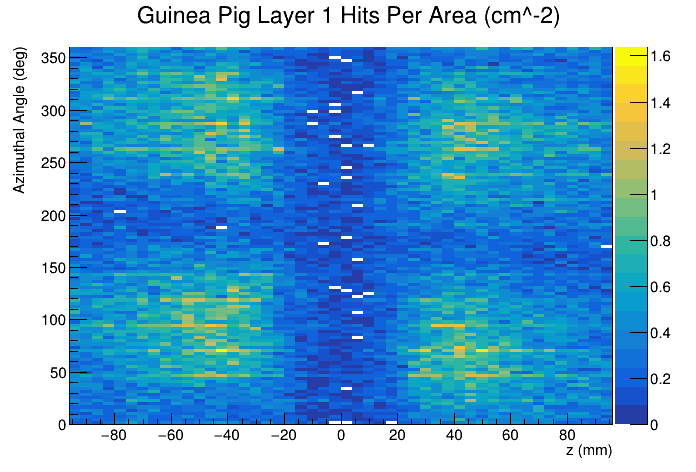
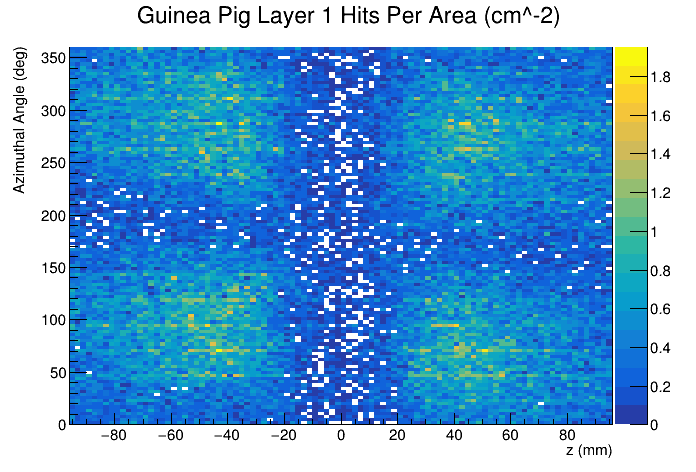
changing bin sizes on hit rate plots

diff --git a/python/hit_rate_mapper.py b/python/hit_rate_mapper.py
@@ -10,7 +10,7 @@ events = podio_reader.get("events")
 layer_radii = [14, 23, 34.5, 141, 316]
 true_radii = [1.37, 2.37, 3.4, 13, 31.5]
 disk_z = [303, 635, 945, -303, -635, -945]
-z_ranges = {14: (96,4), 23: (162,6), 34.5: (261,9), 141: (162,6), 316: (324,12)}
+z_ranges = {14: (96,2), 23: (162,3), 34.5: (261,3), 141: (162,3), 316: (324,6)}
 particles = {11: "electron", -11: "positron"}
 
 def phi(x,y):
@@ -58,14 +58,14 @@ def z_coord(hit):
             return z
     raise ValueError(f"Not close enough to any of the disks {true_z}")
 
-hit_map = {coord: {z: {azimuthal: {particle: [0] * 100 for particle in particles.values()} \
-                for azimuthal in range(0, 360, 3)} \
-                    for z in range(-z_ranges[coord][0], z_ranges[coord][0], z_ranges[coord][1])} \
-                        for coord in layer_radii}
+# hit_map = {coord: {z: {azimuthal: {particle: [0] * 100 for particle in particles.values()} \
+#                 for azimuthal in range(0, 360, 3)} \
+#                     for z in range(-z_ranges[coord][0], z_ranges[coord][0], z_ranges[coord][1])} \
+#                         for coord in layer_radii}
 
-# hit_map = {coord: {z: {azimuthal: [0] * 100 for azimuthal in range(0, 360, 3)} \
-#                 for z in range(-z_ranges[coord][0], z_ranges[coord][0], z_ranges[coord][1])} \
-#                     for coord in layer_radii}
+hit_map = {coord: {z: {azimuthal: [0] * 100 for azimuthal in range(0, 360, 3)} \
+                for z in range(-z_ranges[coord][0], z_ranges[coord][0], z_ranges[coord][1])} \
+                    for coord in layer_radii}
 
 for i in range(100):
     event = events[i]
@@ -96,8 +96,8 @@ for i in range(100):
             z = hit.getPosition().z
             if abs(z) > z_ranges[coord][0]:
                 continue
-            hit_map[coord][int((z // z_ranges[coord][1]) * z_ranges[coord][1])][int((ph // 3) * 3)][particle][i] += 1
-            # hit_map[coord][int((z // z_ranges[coord][1]) * z_ranges[coord][1])][int((ph // 3) * 3)][i] += 1
+            # hit_map[coord][int((z // z_ranges[coord][1]) * z_ranges[coord][1])][int((ph // 3) * 3)][particle][i] += 1
+            hit_map[coord][int((z // z_ranges[coord][1]) * z_ranges[coord][1])][int((ph // 3) * 3)][i] += 1
 
 for layer_index in range(5):
     for particle in particles.values():
@@ -106,19 +106,19 @@ for layer_index in range(5):
         z_range = z_ranges[layer_radii[layer_index]]
         area = z_range[1] * r * math.pi/60
         hist = ROOT.TH2F("hit map", f"Guinea Pig Layer {layer_index + 1} Hits", (2 * z_range[0]) // z_range[1], -z_range[0], z_range[0], 120, 0, 360)
-        # hist.SetTitle(f"Guinea Pig Layer {layer_index + 1} {particle.capitalize()} Hits Per Area (cm ^-2);Cosine Theta;Azimuthal Angle (deg)")
-        hist.SetTitle(f"Guinea Pig Layer {layer_index + 1} Hits Per Area (cm^-2);z (mm); Azimuthal Angle (deg)")
+        # hist.SetTitle(f"Guinea Pig Layer {layer_index + 1} {particle.capitalize()} Hits Per Area (cm ^-2);z (mm);Azimuthal Angle (deg)")
+        hist.SetTitle(f"Guinea Pig Layer {layer_index + 1} Raw Hits;z (mm); Azimuthal Angle (deg)")
 
         for z in range(-z_range[0], z_range[0], z_range[1]):
             for azimuthal in range(0, 360, 3):
-                hits = np.mean(hit_map[layer_radii[layer_index]][z][azimuthal][particle])
-                # hits = np.mean(hit_map[layer_radii[layer_index]][z][azimuthal])
-                hist.SetBinContent(((z + z_range[0]) // z_range[1]) + 1, (azimuthal // 3) + 1, hits / area)
+                # hits = np.mean(hit_map[layer_radii[layer_index]][z][azimuthal][particle])
+                hits = np.mean(hit_map[layer_radii[layer_index]][z][azimuthal])
+                hist.SetBinContent(((z + z_range[0]) // z_range[1]) + 1, (azimuthal // 3) + 1, hits)
 
         hist.SetStats(0)
         canvas = ROOT.TCanvas("hit map", f"Guinea Pig Layer {layer_index + 1} Hits")
         canvas.SetRightMargin(0.12)
         hist.Draw("colz")
         canvas.Update()
-        canvas.SaveAs(f"../plots/hit_rates/{particle}/gp_layer{layer_index + 1}_{particle}_hit_rate.png")
-        # canvas.SaveAs(f"../plots/hit_rates/per_area/gp_layer{layer_index + 1}_hit_rate.png")
+        # canvas.SaveAs(f"../plots/hit_rates/{particle}/gp_layer{layer_index + 1}_{particle}_hit_rate.png")
+        canvas.SaveAs(f"../plots/hit_rates/raw_hits/gp_layer{layer_index + 1}_raw_hit_rate.png")
